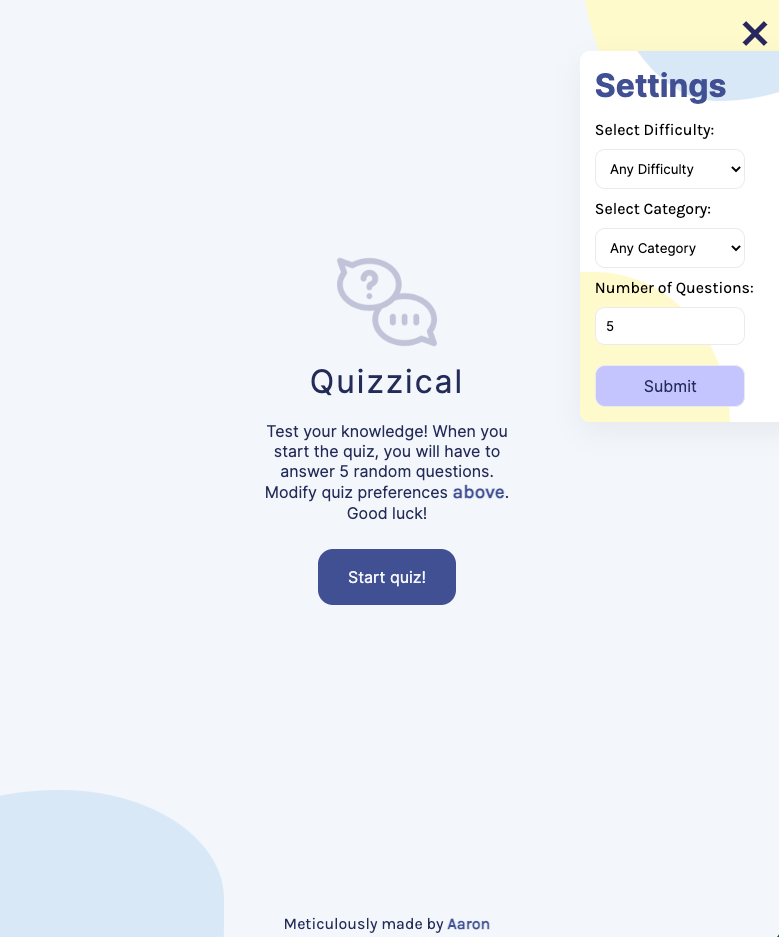
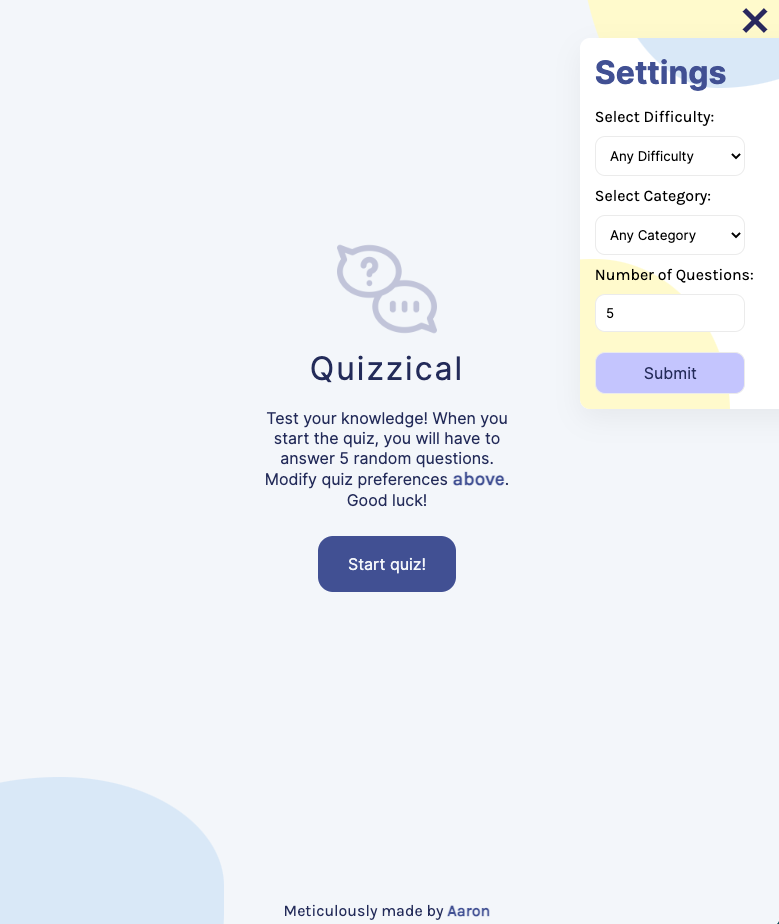
update readme picture positioning

Changed region(s): [[0.7394, 0.0, 1.0, 0.4545], [0.3389, 0.2424, 0.647, 0.6667]]

diff --git a/README.md b/README.md
@@ -4,8 +4,10 @@ Solo project to further test my React skills and become even more familiar with 
 
 Project: [Quizzical](https://aakeohane.github.io/react-trivia/)
 
-<img src="src/img/quizzical-sample.png" width="400" alt="screen of homepage for quizzical">
-<img src ="src/img/quizzical-sample-questions.png" width="400" alt="screen of answers displaying correct and incorrect choices">
+<p float="left">
+  <img src="src/img/quizzical-sample.png" width="400" alt="screen of homepage for quizzical"> 
+  <img src ="src/img/quizzical-sample-questions.png" width="400" alt="screen of answers displaying correct and incorrect choices">
+</p>
 
 ## Features ✅
 
